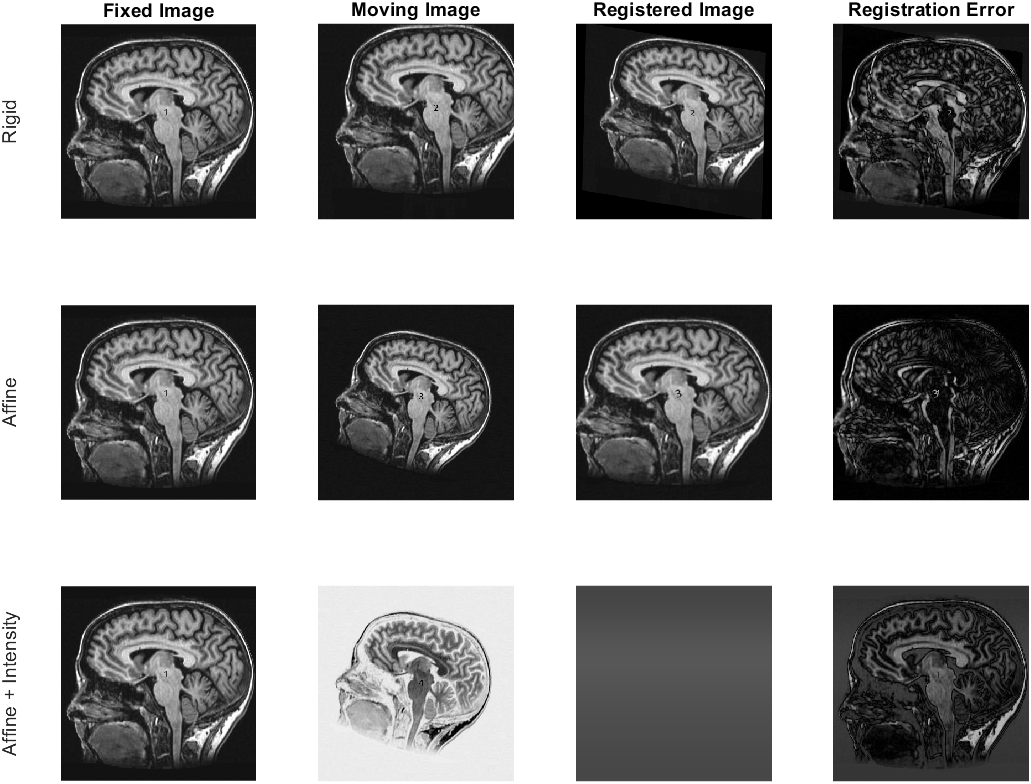
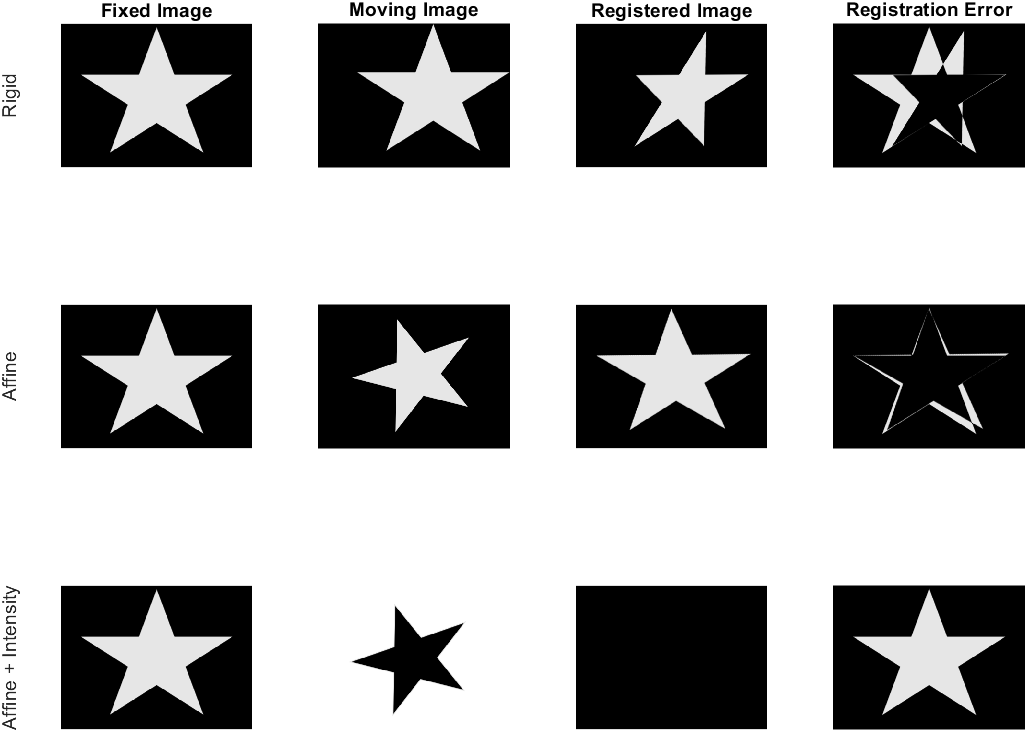
images successfully generated

diff --git a/lab1/generate_figures.m b/lab1/generate_figures.m
@@ -3,86 +3,93 @@ clear all; close all; clc;
 
 % Read two imges 
 img_fix = im2double(rgb2gray(imread('images/brain1.png'))); 
-resulting_errors = zeros(6, 3);
-resulting_mis = zeros(6, 3);
-times = zeros(6, 3);
 
-figure(1)
+% RIGID TRANSFORMATION
+t = tiledlayout(3,5);
+t.TileSpacing = 'compact';
+t.Padding = 'compact';
 for i=2:4
     img_mov = im2double(rgb2gray(imread(sprintf('images/brain%d.png', i))));
 
-    [img_reg_sd_r, ~] = affine_registration_2d(img_mov, img_fix, 'sd', 'r');
-    [img_reg_nncc_r, ~] = affine_registration_2d(img_mov, img_fix, 'nncc', 'r');
-    [img_reg_nngcc_r, ~] = affine_registration_2d(img_mov, img_fix, 'nngcc', 'r');
+    [img_reg_sd_r, ~] = multiscale_affine_registration_2d(img_mov, img_fix, 'sd', 'r', 4);
+    [img_reg_nncc_r, ~] = multiscale_affine_registration_2d(img_mov, img_fix, 'nncc', 'r', 4);
+    [img_reg_nngcc_r, ~] = multiscale_affine_registration_2d(img_mov, img_fix, 'nngcc', 'r', 4);
 
      % rigid
-    subplot(3, 5, 5*(i-2) + 1), imshow(img_fix);
-    title('Fixed Image');
+    nexttile, imshow(img_fix);
     if(i==2)
         ylabel('Rigid');
+        title('Fixed');
     elseif(i==3)
         ylabel('Affine');
     else
         ylabel('Affine + Intensity');
     end
 
-    subplot(3, 5, 5*(i-2) + 2), imshow(img_mov);
+    nexttile, imshow(img_mov);
     if(i==2)
-     title('Moving Image');
+     title('Moving');
     end
 
-    subplot(3, 5, 5*(i-2) + 3), imshow(img_reg_sd_r);
+    nexttile, imshow(img_reg_sd_r);
     if(i==2)
         title('SD');  
     end
 
-    subplot(3, 5, 5*(i-2) + 4), imshow(img_reg_nncc_r);
+    nexttile, imshow(img_reg_nncc_r);
     if(i==2)
         title('NNCC');
     end
 
-    subplot(3, 5, 5*(i-2) + 5), imshow(img_reg_nngcc_r);
+    nexttile, imshow(img_reg_nngcc_r);
     if(i==2)
         title('NNGCC');
     end
         
-    exportgraphics(gcf,"rigid_single_resolution.png")
+     exportgraphics(t,"rigid_multi_resolution_.png")
 end
 
-figure(2)
+
+% AFFINE TRANSFORMATION
+t = tiledlayout(3,5);
+t.TileSpacing = 'compact';
+t.Padding = 'compact';
 for i=2:4
     img_mov = im2double(rgb2gray(imread(sprintf('images/brain%d.png', i))));
 
-    [img_reg_sd_a, ~] = affine_registration_2d(img_mov, img_fix, 'sd', 'a');
-    [img_reg_nncc_a, ~, ~] = affine_registration_2d(img_mov, img_fix, 'nncc', 'a');
-    [img_reg_nngcc_a, ~] = affine_registration_2d(img_mov, img_fix, 'nngcc', 'a');
+    [img_reg_sd_a, ~] = multiscale_affine_registration_2d(img_mov, img_fix, 'sd', 'a', 4);
+    [img_reg_nncc_a, ~] = multiscale_affine_registration_2d(img_mov, img_fix, 'nncc', 'a', 4);
+    [img_reg_nngcc_a, ~] = multiscale_affine_registration_2d(img_mov, img_fix, 'nngcc', 'a', 4);
 
-     % Affine
-    subplot(3, 5, 5*(i-2) + 1), imshow(img_fix);
-    title('Fixed Image');
+    nexttile, imshow(img_fix);
     if(i==2)
         ylabel('Rigid');
+        title('Fixed');
     elseif(i==3)
         ylabel('Affine');
     else
         ylabel('Affine + Intensity');
     end
-    subplot(3, 5, 5*(i-2) + 2), imshow(img_mov);
+
+    nexttile, imshow(img_mov);
     if(i==2)
-     title('Moving Image');
+     title('Moving');
     end
-    subplot(3, 5, 5*(i-2) + 3), imshow( img_reg_sd_a);
+
+    nexttile, imshow(img_reg_sd_r);
     if(i==2)
         title('SD');  
     end
-    subplot(3, 5, 5*(i-2) + 4), imshow(img_reg_nncc_a);
+
+    nexttile, imshow(img_reg_nncc_r);
     if(i==2)
         title('NNCC');
     end
-    subplot(3, 5, 5*(i-2) + 5), imshow(img_reg_nngcc_a);
+
+    nexttile, imshow(img_reg_nngcc_r);
     if(i==2)
         title('NNGCC');
     end
-    exportgraphics(gcf,"affine_single_resolution.png")
+        
+     exportgraphics(t,"affine_multi_resolution_.png")
 end
-

diff --git a/lab1/experiments.m b/lab1/experiments.m
@@ -20,7 +20,7 @@ for i=2:4
     file_n = "images\rigid_mse_sr.png";
     exportgraphics(gcf,file_n)
 end
-
+% 
 % MSE + Affine
 for i=2:4
     img_mov = im2double(rgb2gray(imread(sprintf('images/brain%d.png', i))));
@@ -35,7 +35,7 @@ for i=2:4
     exportgraphics(gcf,file_n)
 end
 
-% % NNCC + Rigid
+% NNCC + Rigid
 for i=2:4
     img_mov = im2double(rgb2gray(imread(sprintf('images/brain%d.png', i))));
     tic
@@ -49,7 +49,7 @@ for i=2:4
     exportgraphics(gcf,file_n)
 end
 
-% % NNCC + Affine
+% NNCC + Affine
 for i=2:4
     img_mov = im2double(rgb2gray(imread(sprintf('images/brain%d.png', i))));
     tic

diff --git a/lab1/affine_registration_2d.m b/lab1/affine_registration_2d.m
@@ -32,8 +32,8 @@ x = x./scale;
         x, scale, img_mov, img_fix, mtype, ttype), ...
     x, optimset('Display', 'iter', 'MaxIter', 1000, ...
         'TolFun', 1.000000e-10, 'TolX', 1.000000e-10, ...
-        'MaxFunEvals', 1000*length(x)));
-exportgraphics(gcf,'optim.png')
+        'MaxFunEvals', 1000*length(x), 'PlotFcns',@optimplotfval));
+exportgraphics(gcf,'optim_affine.png')
 
 x = x.*scale;
 

diff --git a/lab1/multiscale_affine_registration_2d.m b/lab1/multiscale_affine_registration_2d.m
@@ -40,7 +40,7 @@ for i=1:n_resolutions
         switch ttype
             case 'r'
                 x = [0 0 0];
-                scale = [1 1 0.1];
+                scale = [1 1 1];
             case 'a'
                 x = [0 0 0 1 1 0 0];
                 scale = [1 1 1 1 1 1 1]; 
